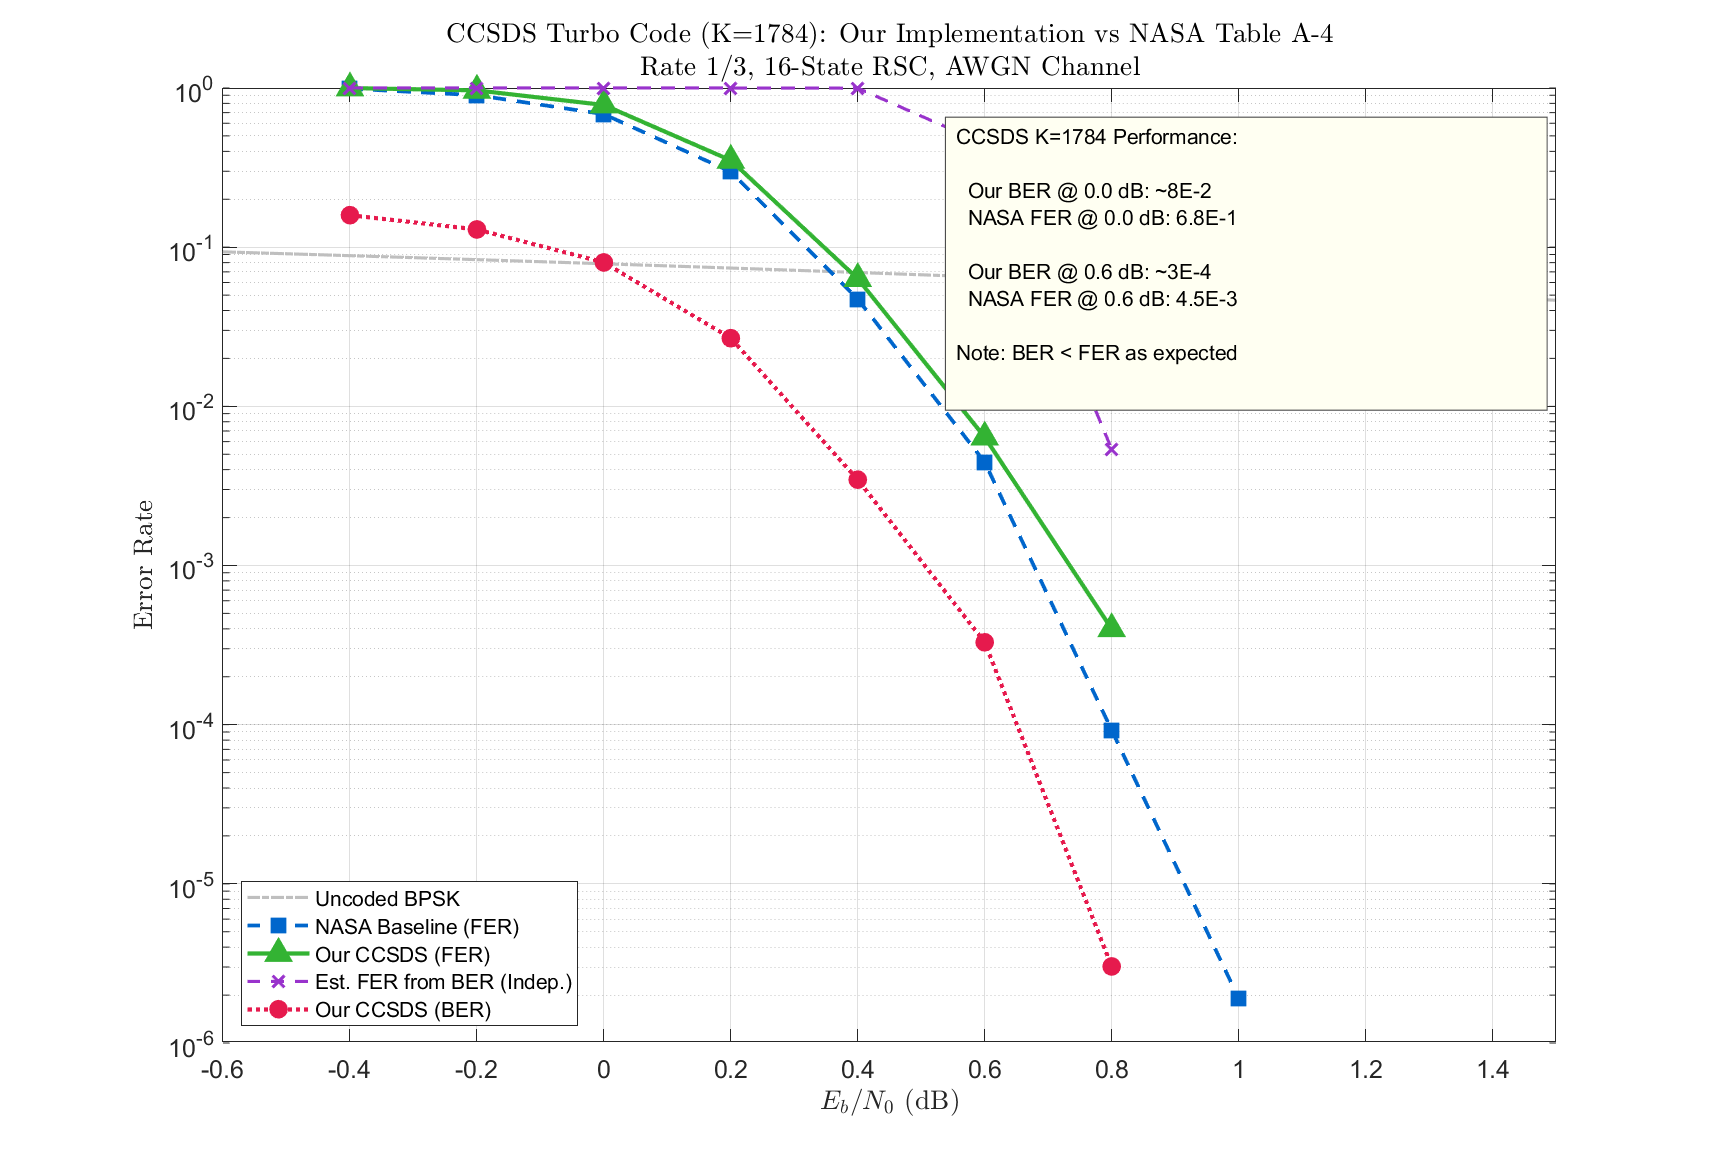
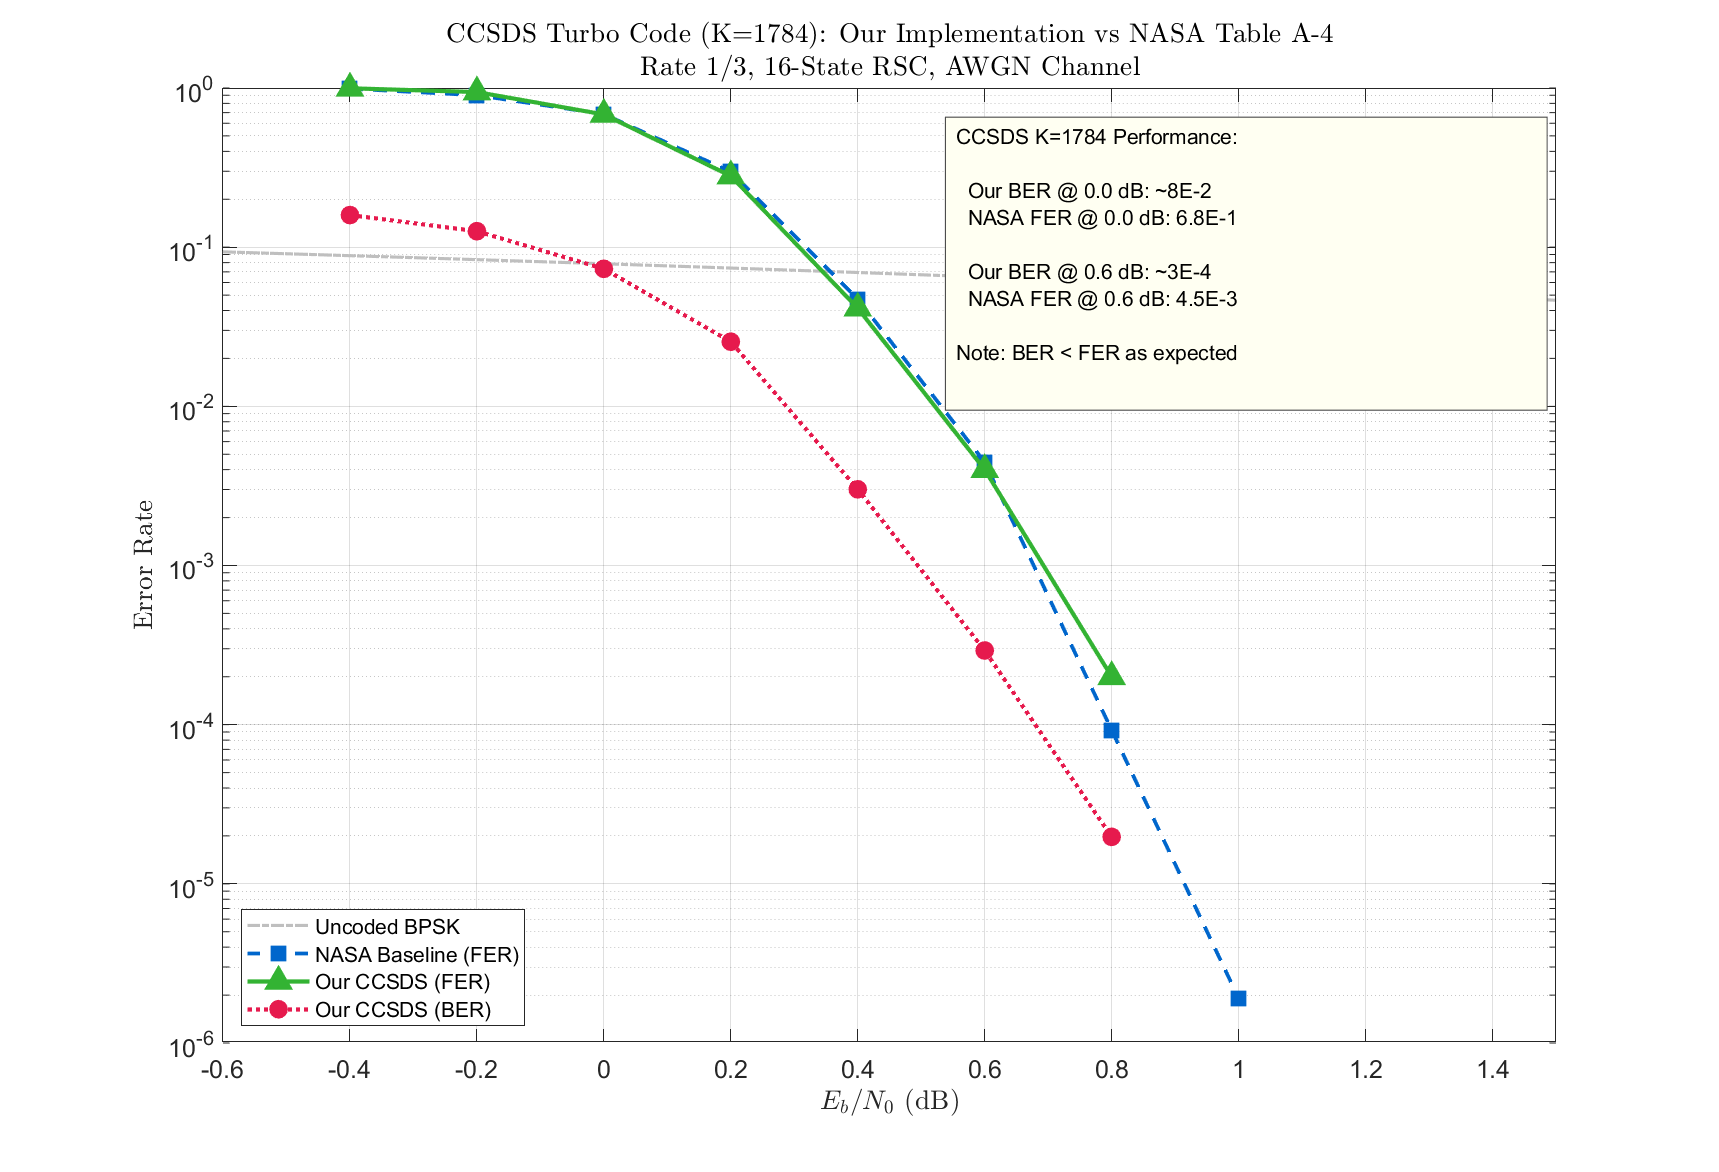
更新K=1784的迭代次数验证

diff --git a/output/04_ccsds_validation/plot_ccsds_validation.m b/output/04_ccsds_validation/plot_ccsds_validation.m
@@ -4,7 +4,7 @@
 clear; close all; clc;
 
 %% === 读取你的仿真数据 ===
-your_data = readtable('ber_ccsds_1784.csv', 'CommentStyle', '#');
+your_data = readtable('./ber_Turbo_LogMAP_20260110_151936_merged.csv', 'CommentStyle', '#');
 % 获取列名
 colNames = your_data.Properties.VariableNames;
 fprintf('Available columns: %s\n', strjoin(colNames, ', '));
@@ -12,23 +12,16 @@ fprintf('Available columns: %s\n', strjoin(colNames, ', '));
 % 处理列名 (Eb_N0 来自 parallel_sim 合并)
 your_snr = your_data{:, 1};  % 第一列是 SNR
 your_ber = your_data{:, 4};  % 第四列是 BER
-% 尝试读取 FER (第 7 列), 如果没有表头可能会变成 Var7
+% 尝试读取 FER (第 7 列)
 if width(your_data) >= 7
     your_fer = your_data{:, 7};
 else
-    % 如果文件头只有 4 列但数据有 7 列，readtable 可能会忽略后面
-    % 这里假设用户可能需要手动处理或重新运行，或者我们尝试用 textscan 读取
     warning('FER data column not found in table. Trying to calculate from Frame Errors if available.');
     your_fer = NaN(size(your_snr));
 end
 
 your_ber(your_ber == 0) = NaN;
 your_fer(your_fer == 0) = NaN;
-
-% 由 BER 估计 FER (假设误码独立分布 - 上界估计)
-% FER_est = 1 - (1 - BER)^K
-K_ccsds = 1784;
-your_fer_est = 1 - (1 - your_ber).^K_ccsds;
 
 %% === NASA 基准数据 Table A-4 (K=1784, R=1/3) ===
 % 这是 FER 数据
@@ -56,11 +49,6 @@ semilogy(nasa_1784_snr, nasa_1784_fer, '--s', 'Color', [0.0 0.4 0.8], ...
 semilogy(your_snr, your_fer, '-^', 'Color', [0.2 0.7 0.2], ...
     'LineWidth', 2.0, 'MarkerSize', 9, 'MarkerFaceColor', [0.2 0.7 0.2], ...
     'DisplayName', 'Our CCSDS (FER)');
-
-% BER 推导的 FER (虚线) - 紫色
-semilogy(your_snr, your_fer_est, '--x', 'Color', [0.6 0.2 0.8], ...
-    'LineWidth', 1.5, 'MarkerSize', 8, ...
-    'DisplayName', 'Est. FER from BER (Indep.)');
 
 % 你的实现 (BER) - 红色虚线
 semilogy(your_snr, your_ber, ':o', 'Color', [0.9 0.1 0.3], ...

diff --git a/include/config.h b/include/config.h
@@ -82,7 +82,7 @@ extern TurboType g_turbo_type;
 #define CCSDS_K 1784               // CCSDS: 信息比特数 (初始仅支持1784)
 #define CCSDS_message_length (CCSDS_K + CCSDS_STATE_MEM)
 #define CCSDS_codeword_length (CCSDS_K * 3 + CCSDS_STATE_MEM * 4)
-#define CCSDS_ITERATIONS 8         // CCSDS: 译码器迭代次数
+#define CCSDS_ITERATIONS 10        // CCSDS: 译码器迭代次数 (NASA基准为10)
 
 // =================================================================
 // --- 译码器名称字符串 ---

diff --git a/doc/维特比突发错误.md b/doc/维特比突发错误.md
@@ -1,0 +1,97 @@
+# You Asked:
+
+如何理解：Since the Viterbi decoder’s
+errors occur in bursts, the FER curves in figure 4-9 cannot be directly derived from the BER
+curve for D = 60 bits in figure 4-8 by assuming independent bit errors，我从% 由 BER 估计 FER (假设误码独立分布 - 上界估计)
+% FER_est = 1 - (1 - BER)^K
+K_ccsds = 1784;
+your_fer_est = 1 - (1 - your_ber).^K_ccsds;是什么原理，为什么plot出来相差很大
+
+# Gemini Responded:
+
+这是一个非常经典且深刻的通信原理问题。你使用的公式 $FER = 1 - (1 - BER)^K$ 是基于\*\*独立同分布（i.i.d.）\*\*假设的，而卷积码（由 Viterbi 译码）的错误特性恰恰违反了这个假设。
+
+以下是详细的物理解释和为什么你的仿真曲线会产生巨大偏差的原因：
+
+-----
+
+### 1\. 理论基础：独立误差模型
+
+你的公式 `FER = 1 - (1 - BER)^K` 推导如下：
+
+  * 假设每个比特发生错误的概率是 $BER$，且**比特与比特之间的错误是完全独立的**。
+  * 一帧（$K$ 个比特）完全正确的概率是：$(1 - BER)^K$。
+  * 只要有一个比特错，整帧就错，所以 $FER = 1 - P(\text{全对})$。
+
+**这个公式在什么情况下准？**
+当误码是随机散布（Random Errors）时，例如在加性高斯白噪声（AWGN）信道下直接传输 BPSK，不加任何纠错码，或者经过了**深度交织**后的系统。
+
+-----
+
+### 2\. Viterbi 译码的“突发性”（Burst Errors）
+
+Viterbi 译码器的错误不是随机分布的，而是**成串出现**的。
+
+  * **路径竞争机制**：Viterbi 算法在格图（Trellis）中寻找路径。当噪声导致译码器选错了一条路径时，译码器会从正确路径“分叉”出去。
+  * **错误事件（Error Event）**：一旦分叉，译码器必须经过至少 $L$（约束长度）个分支才能重新回到正确路径。在这个“分叉-合并”的过程中，会连续产生多个误比特。
+  * **结论**：在 Viterbi 译码中，10 个比特错误通常不是分散在 10 个地方，而是集中在一个很短的时间段内（一个“突发”）。
+
+-----
+
+### 3\. 为什么你的 $FER$ 估计值偏大？
+
+假设一帧长度 $K = 1784$。现在系统发生了 10 个比特错误：
+
+  * **情况 A（独立分布 - 你的公式假设）**：这 10 个错点随机分布。它们极大概率落在 10 个不同的帧里（如果 BER 很低）。这会导致 10 帧都出错。
+  * **情况 B（突发分布 - Viterbi 真实情况）**：这 10 个错点集中在一次“路径选错”中。这 10 个错误全部发生在一帧之内。结果是：只有 1 帧出错，剩下的 9 帧全是完美的。
+
+**结果对比：**
+
+  * 同样的 $BER$（都是 10 个错点），Viterbi 导致的 $FER$ 要远远**低于**独立分布模型预测的 $FER$。
+  * 你的公式 `1 - (1 - BER)^K` 在 $K$ 很大时，会极度**高估**帧错误率。
+
+-----
+
+### 4\. 数据表现差异
+
+| 特性 | 独立随机误差 (你的公式) | Viterbi 突发误差 |
+| :--- | :--- | :--- |
+| **分布** | 均匀散布 | 成簇出现 (Clustered) |
+| **对 FER 的贡献** | “浪费”少：每个错点都尽可能破坏一帧 | “浪费”多：很多错点挤在同一帧里 |
+| **曲线位置** | $FER$ 曲线非常靠近上方 (差) | $FER$ 曲线明显下移 (好) |
+
+**为什么差距随 SNR 变化？**
+在信噪比（SNR）高的时候，Viterbi 译码器很久才错一次，但一错就是一串。此时，独立分布模型计算出的 $FER$ 甚至可能比真实 $FER$ 高出一个数量级以上。
+
+-----
+
+### 5\. 应该如何计算或修正？
+
+对于卷积码，通常不能简单地用 $BER$ 换算 $FER$。
+
+1.  **仿真法（最常用）**：在代码中直接统计错帧数。
+
+    ```matlab
+    % 伪代码
+    nFrameErrors = sum(original_frame ~= decoded_frame, 'all'); 
+    FER = nFrameErrors / total_frames;
+    ```
+
+2.  **上界估计（Union Bound）**：
+    通信教材中通常使用第一误差事件概率（First Error Event Probability）$P_f$ 来近似：
+    $$FER \approx 1 - (1 - P_f)^N$$
+    其中 $P_f$ 与码的自由距离（Free Distance）有关。
+
+3.  **经验修正系数**：
+    如果你非要用 $BER$ 来估算，需要引入一个“突发因子” $m$（平均每个错误事件包含的误比特数）：
+    $$FER_{est} \approx 1 - \left(1 - \frac{BER}{m}\right)^K$$
+    对于常见的 $(2,1,7)$ 卷积码，$m$ 通常在 2 到 5 之间（随 SNR 变化）。
+
+### 下一步建议
+
+你可以检查一下你的仿真曲线：**是否 `your_fer_est`（蓝线或虚线）远远高于你实际统计出的 `FER` 曲线？** 如果是这样，说明你的 Viterbi 译码器工作正常，正是因为它的“突发错误”特性保护了更多的帧不被打断。你需要**放弃使用该转换公式**，直接在仿真循环中通过比较原始帧和译码帧来统计真实的 `FER`。
+
+你想让我帮你写一段在 MATLAB 中正确统计帧错误率（FER）的示例代码吗？
+
+---
+
